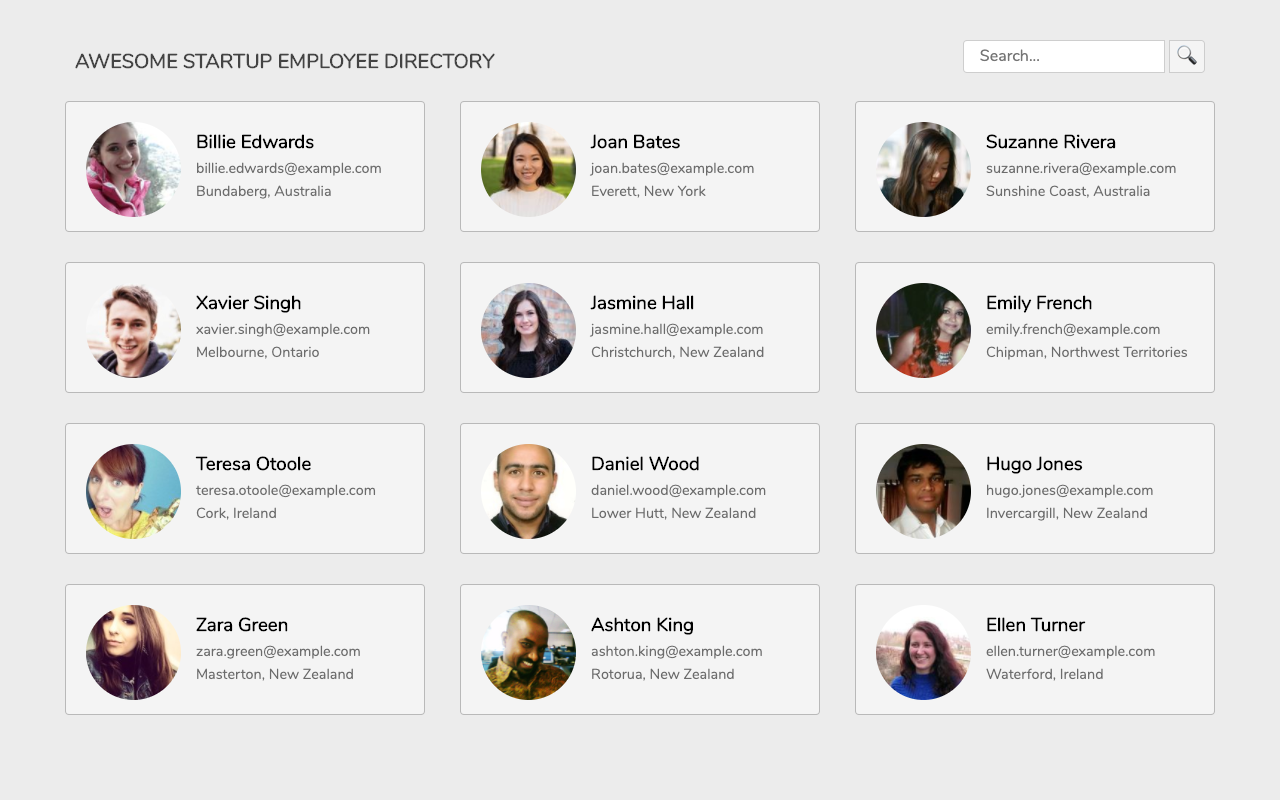
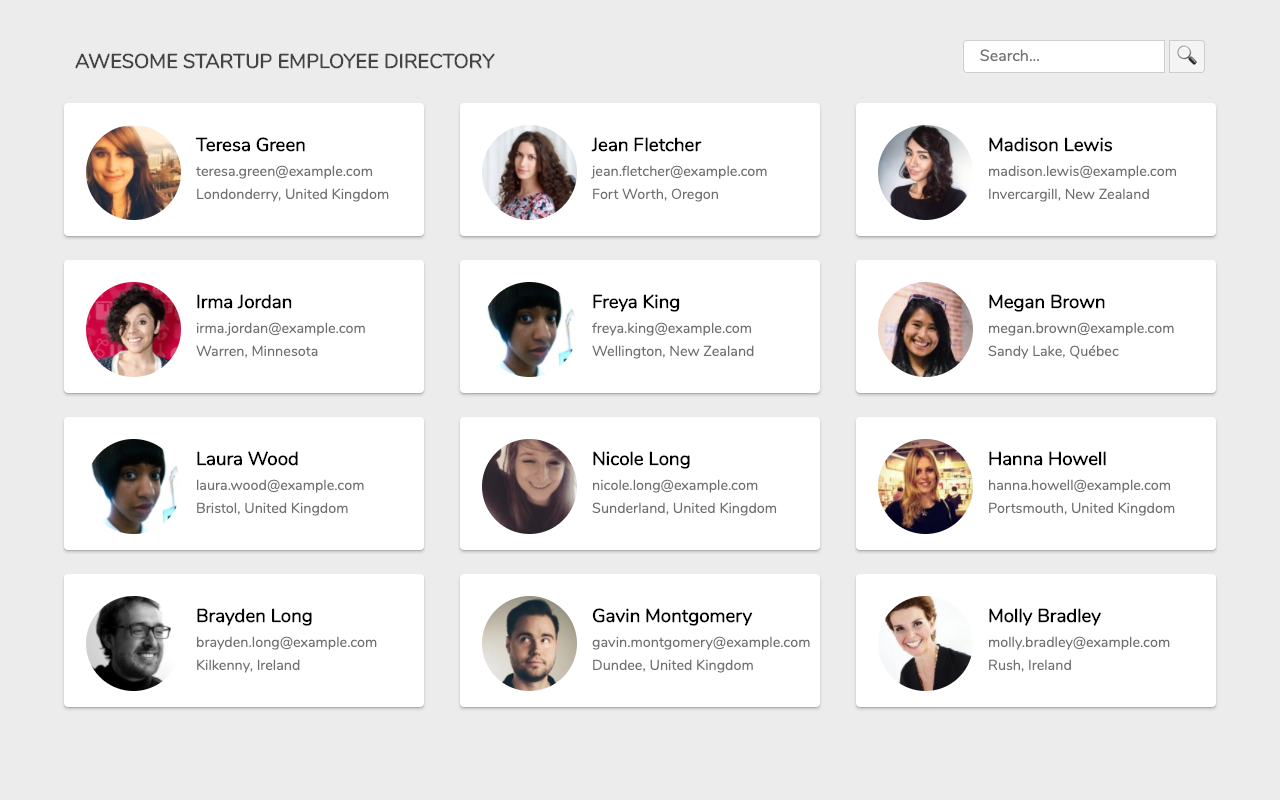
Style changes and README

diff --git a/css/styles.css b/css/styles.css
@@ -90,11 +90,11 @@ header h1 {
   cursor: pointer;
   width: 100%;
   max-width: 360px;
-  margin: 10px 10px 20px;
-  padding: 10px;
-  background: rgba(245, 245, 245, 0.9);
+  margin: 12px;
+  padding: 12px;
+  background: white;
   border-radius: 0.25em;
-  border: 1px solid rgba(50, 50, 50, 0.3);
+  box-shadow: 0 2px 3px rgba(0, 0, 0, 0.2), 0 1px 0 rgba(0, 0, 0, 0.1);
   transition: .4s ease-out;
   overflow: hidden;
 }
@@ -148,7 +148,7 @@ header h1 {
   background: rgba(255, 255, 255, 1);
   border-radius: 0.25em;
   border: 1px solid rgba(100, 100, 100, 0.3);
-  transition: .4s ease-out;
+  transition: .2s ease-out;
 }
 
 .modal-close-btn {
@@ -213,7 +213,6 @@ header h1 {
   outline: none;
 }
 
-
 /* ===================================== 
    Media Queries
 ======================================== */
@@ -254,8 +253,7 @@ header h1 {
 @media (min-width: 1024px) {
 
   .card:hover {
-    background: rgba(255, 255, 255, 1);
-    border: 1px solid rgba(50, 50, 50, 0.9);
+    box-shadow: 0 5px 12px rgba(0, 0, 0, 0.2), 0 3px 5px rgba(255, 255, 255, 0.1);
   }
 
   .card:hover .card-text {

diff --git a/js/scripts.js b/js/scripts.js
@@ -86,7 +86,7 @@ function renderModal(employees, index) {
    */
   const prevEmployee = document.querySelector('.modal-prev');
   prevEmployee.addEventListener('click', (e) => {
-    if (currentIndex > 0) {
+    if (currentIndex > 1) {
       const modalInfo = document.querySelector('.modal-info-container');
       modalInfo.innerHTML = renderModalInfo(employees[currentIndex -= 1]);
     }

diff --git a/README.md b/README.md
@@ -7,3 +7,9 @@ For this project, I'll build an app for a fictional company called Awesome Start
 I’ll use the [Random User Generator API](https://randomuser.me/) to grab information for 12 random “employees,” and use that data to build a prototype for an Awesome Startup employee directory.
 
 I’ll request a JSON object from the API and parse the data so that 12 employees are listed in a grid with their thumbnail image, full name, email, and location. Clicking the employee’s image or name will open a modal window with more detailed information, such as the employee’s birthday and address.
+
+### Style changes
+
+1. Removed the `border`s from the `.card`s and added `box-shadow`s.
+2. Reduced the `transition` duration from `.4` to `.2` to make it feel snappier.
+3. Made the spacing a little smaller between the `.card`s.
